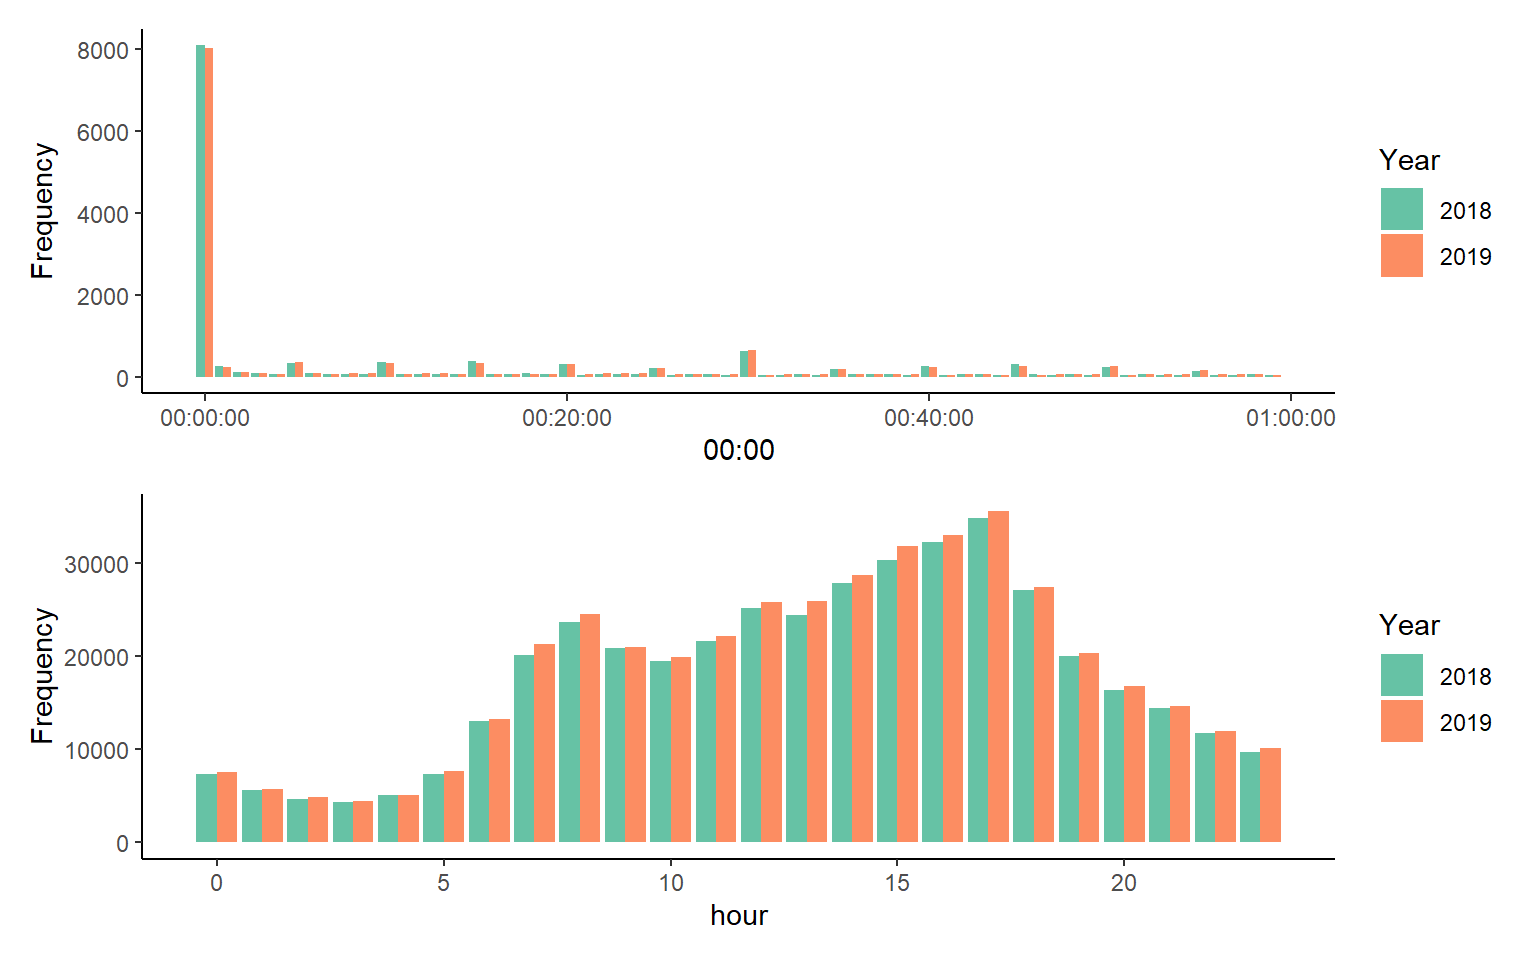
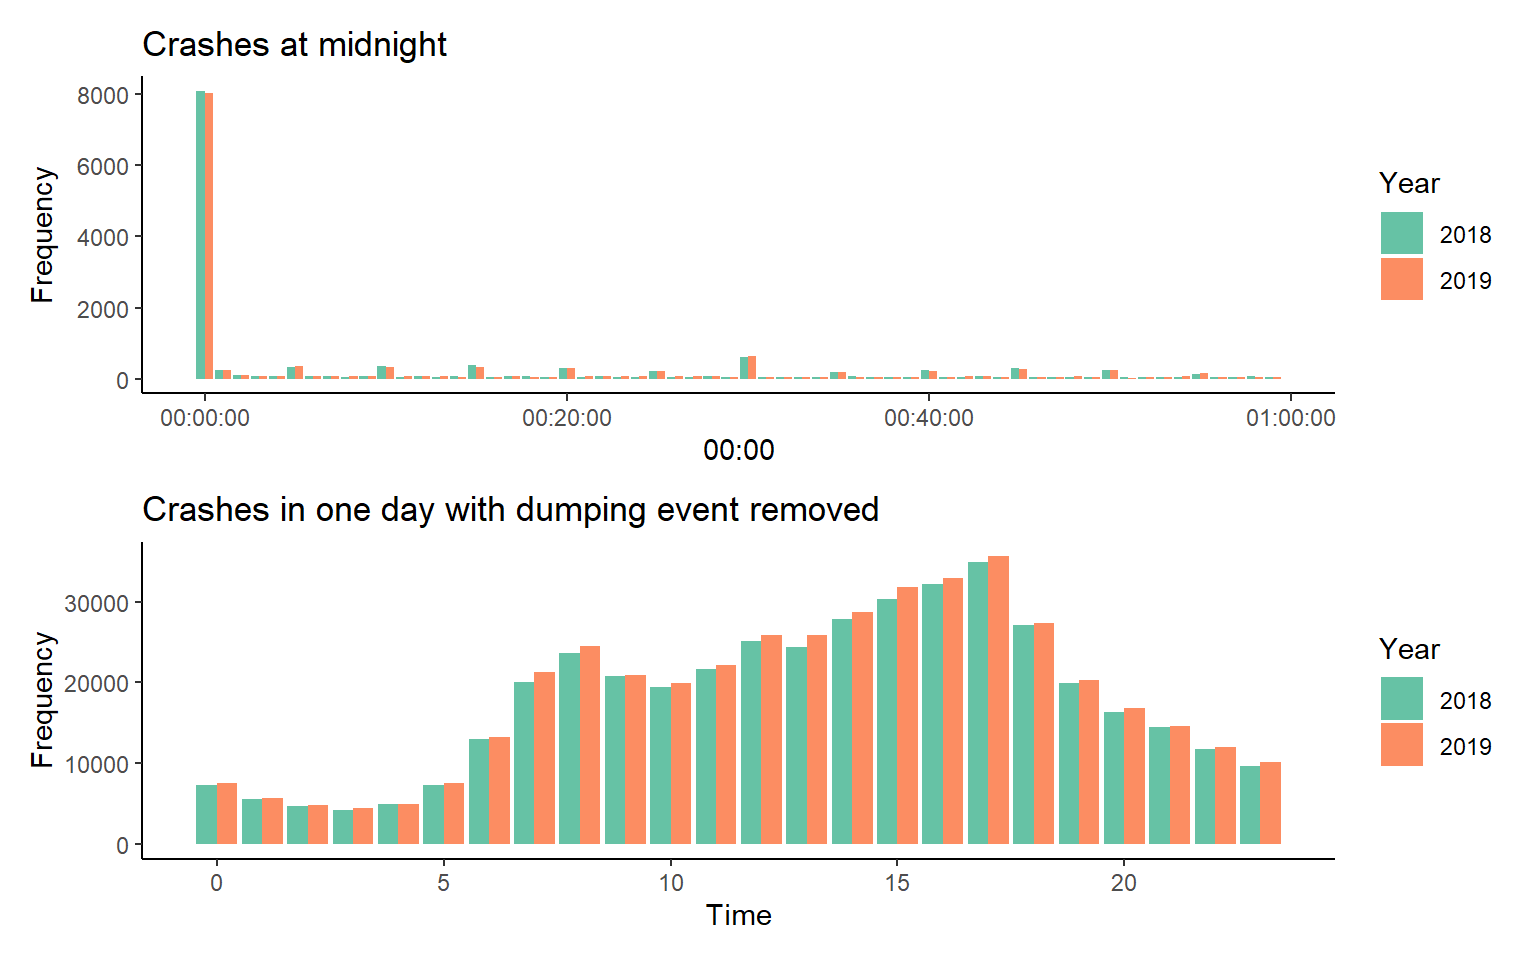
plot consistency

diff --git a/docs/results.html b/docs/results.html
@@ -134,59 +134,61 @@
 <div id="time-in-day" class="section level3" number="5.1.1">
 <h3><span class="header-section-number">5.1.1</span> Time in Day</h3>
 <p>First, we explore when crashes happen the most, and the corresponding reasons.
-<img src="finalproj_files/figure-html/unnamed-chunk-18-1.png" width="768" />
+<img src="finalproj_files/figure-html/unnamed-chunk-6-1.png" width="768" />
 Here is an overview of number of crash occur in 24 hours in 2018 and 2019. Firstly, there are three peaks in the plot: 0:00, 8:00 and 17:00. Commuting peak can be considered as the major reason for peaks at 8:00 and 17:00. The reason for 0:00 will be explored in details later. Secondly, we assume that <code>Lighting Conditions</code>, <code>Road Descriptor</code>, and <code>Crash Descriptor</code> are highly correlated with the hour in a day. The following bar plots examine each variable independently with time. Also <code>Collision_Detail</code> will be used to see what the actual reasons for crashing in each hour.</p>
 <p><strong>Lighting Condition</strong>
 <br>
 The variation for lighting condition matches time. During day time, the majority cases are under daylight; and during evening, majority cases are under Dark-Road Lighted/Unlighted condition. For crashes happened in the night, the proportion of lighted condition are always higher than the proportion of unlighted condition. On the other side, 17:00 is when most crashes happened during one day, which is under daylight condition in most of the time. Therefore, we can simply conclude that the reason of evening crashes is not correlated with the lighting condition.</p>
-<p><img src="finalproj_files/figure-html/unnamed-chunk-20-1.png" width="768" /></p>
+<p><img src="finalproj_files/figure-html/unnamed-chunk-8-1.png" width="768" /></p>
 <p><strong>Road Descriptor</strong>
 <br>
 The assumption for road descriptor is that during night curve conditions may have more cases than straight conditions. However, the plot indicates that the road descriptor doesn’t have a obvious correlation with time. In one day, most of the cases were under the straight and level condition, which is the major condition of most of the road in the states.
-<img src="finalproj_files/figure-html/unnamed-chunk-21-1.png" width="768" /></p>
+<img src="finalproj_files/figure-html/unnamed-chunk-9-1.png" width="768" /></p>
 <p><strong>Damage Severity </strong>
 <br>
-Most of the crash in these two years are property damage accident. Injury accidentm, property damage &amp; injury accident, and property damage accident have similar distribution through all the time during one day. The proportion of fatal accident is very small, but always happened during night and early morning.
-<img src="finalproj_files/figure-html/unnamed-chunk-22-1.png" width="768" /></p>
+Most of the crash in these two years are property damage accident. Injury accident, property damage &amp; injury accident, and property damage accident have similar distribution through all the time during one day. The proportion of fatal accident is very small, but happened during night and early morning more often.
+<img src="finalproj_files/figure-html/unnamed-chunk-10-1.png" width="768" /></p>
 <p><strong>Collision Details</strong></p>
 <p>There are total 30 levels for collision details, which is hard to illustrate in one plot. In the previous data cleaning part, collision details has a super class, collision type, which only have 3 levels (“Collision With”, “Collision With Fixed Object”, “Non-Collision”). The majority cases are under type “collision with”, so the first plot only contains the collision details that belongs to type “collision with”, and the second plot shows the top 6 levels in collision details for the remaining types “Non-Collision” and “Collision With Fixed Object”.</p>
 <p>For collision with subject, motor vehicle collisions are over 50% of the cases, which doesn’t have a obvious correlation with time. The second highest proportion is collision with animal, which has a peak in the morning around 5:00 and remains low proportion during day time. The animal activity and human activity can explain this phenomenon. Usually, animal activate when human activity reduces, which is during night and early morning. Other collision details, such as collision with bicyclist and pedestrain are not correlated with time.
-<img src="finalproj_files/figure-html/unnamed-chunk-23-1.png" width="768" /></p>
+<img src="finalproj_files/figure-html/unnamed-chunk-11-1.png" width="768" /></p>
 <p>As the plots shown below, details in both types are not have a correlation with the time. Details will be used in the follwing section to explore with other variables.
-<img src="finalproj_files/figure-html/unnamed-chunk-24-1.png" width="768" /></p>
+<img src="finalproj_files/figure-html/unnamed-chunk-12-1.png" width="768" /></p>
 <p><strong>Midnight Peak</strong>
 <br>
-We notice that an unusual peak at 00:00 in the total number cases time bar plot. At the same time, in the first two variables, at 0:00 25% of the cases are under Unknown, while compare to other time, this proportion is problematic. With the bar chart below, at 00:00:00, the number of cases is extremely higher than other time. For this result, we have the assumption that 00:00:00 is a position to dump cases with unclear time. To prove the assumption, the number of cases at 00:00:00 are replaced by the second largest number in 00:00. The histogram after cleaning this data is shown below, which support the assumption that 00:00 is not a actual crashes peak, and the crash is highly correlated with human activity. Even though the time of some cases is not accurate, but we decided not to remove them from the following analysis.
-<img src="finalproj_files/figure-html/unnamed-chunk-25-1.png" width="768" /></p>
+We notice that an unusual peak at 00:00 in the total number cases time bar plot. At the same time, in the first two variables, at 0:00 25% of the cases are under Unknown, while compare to other time, this proportion is problematic. With the bar chart below, at 00:00:00, the number of cases is extremely higher than other time.
+<br>
+For this result, we have the assumption that 00:00:00 is a position to dump cases with unclear time. To prove the assumption, the number of cases at 00:00:00 are replaced by the second largest number in 00:00. The histogram after cleaning this data is shown below, which support the assumption that 00:00 is not a actual crashes peak, and the crash is highly correlated with human activity. Even though the time of some cases is not accurate, but we decided not to remove them from the following analysis.
+<img src="finalproj_files/figure-html/unnamed-chunk-13-1.png" width="768" /></p>
 </div>
 <div id="month-of-year" class="section level3" number="5.1.2">
 <h3><span class="header-section-number">5.1.2</span> Month of Year</h3>
-<p><img src="finalproj_files/figure-html/unnamed-chunk-26-1.png" width="768" />
+<p><img src="finalproj_files/figure-html/unnamed-chunk-14-1.png" width="768" />
 The bar plots above shows the number of car crashes occurred on each month accumulating 2018 and 2019. While the differences between each month are not tremendous, we could still observe that the number of crashes that happened in October, November, December and January are higher than the other months in a year.
 Remarkably, the four months that have highest number of car crashes occurred are cluster together, and these four months covers almost the whole winter season. Considering the season factor, the weather conditions are different in winter than other season, and the daytime are shorter in winter which the lighting condition could be different as well. To get further information for car crashes that occurred in these four months, we will visulize through the mosiac plots between months and lighting conditions and weather conditions.</p>
-<p><img src="finalproj_files/figure-html/unnamed-chunk-27-1.png" width="768" /></p>
-<p><img src="finalproj_files/figure-html/unnamed-chunk-28-1.png" width="768" />
+<p><img src="finalproj_files/figure-html/unnamed-chunk-15-1.png" width="768" /></p>
+<p><img src="finalproj_files/figure-html/unnamed-chunk-16-1.png" width="768" />
 Looking at the two plots above, for the first plot, we can obverse that for the car crashes that occurred during October, November, December and January, the proportion of having lighting conditions of “Dark-Road Lighted” and “Dark-Road Unlighted” when crashes occurred are higher than those in the other months. While most of the crashes happened under the “Daylight” lighting condition, it is still worth noticing that how the proportion of lighting condition changed when the crashes occurred within these four months.
 In addition to seeing the lighting conditions, in the second plot showing the proportion of weather conditions when the car crashes occurred, we can observe that around 10 to 18 percent of car crashes occurred in November, December and January are under the “Snow” or “Sleet/Hail/Freezing Rain” weather condition. Since the weather condition vary objective to the time period (season) during a year, we cannot infer weather the higher number of crashes in these four months are due to change in the weather conditions.</p>
 </div>
 </div>
 <div id="where" class="section level2" number="5.2">
 <h2><span class="header-section-number">5.2</span> Where</h2>
-<p><img src="finalproj_files/figure-html/unnamed-chunk-29-1.png" width="2880" /></p>
-<p><img src="finalproj_files/figure-html/unnamed-chunk-30-1.png" width="768" /></p>
+<p><img src="finalproj_files/figure-html/unnamed-chunk-17-1.png" width="2880" /></p>
+<p><img src="finalproj_files/figure-html/unnamed-chunk-18-1.png" width="768" /></p>
 </div>
 <div id="how" class="section level2" number="5.3">
 <h2><span class="header-section-number">5.3</span> How</h2>
 <p><strong>Top 10 Crashes Detail</strong>
-<img src="finalproj_files/figure-html/unnamed-chunk-31-1.png" width="768" />
+<img src="finalproj_files/figure-html/unnamed-chunk-19-1.png" width="768" />
 Within the dataset, there is a variable providing the details of each crash case which give us the information of the type of collision. In total, there are 30 different situations. We pick the top 10 types which take over 80 percents of all crashes that occurred for analysis. According to the bar plot above, more than 70 percent of the crashes are collision with other motor vehicle and the following by collision with subject including Animal, Pedestrian, Bicyclist and fix objects such as Tree, Guide Rail and Sign Post.</p>
 <p><strong>Road Surface patterns correspond to these top 10 type of Crashes</strong>
-<img src="finalproj_files/figure-html/unnamed-chunk-32-1.png" width="768" /></p>
-<p><img src="finalproj_files/figure-html/unnamed-chunk-33-1.png" width="768" /></p>
+<img src="finalproj_files/figure-html/unnamed-chunk-20-1.png" width="768" /></p>
+<p><img src="finalproj_files/figure-html/unnamed-chunk-21-1.png" width="768" /></p>
 <p><strong>Combination: Lighting Conditions and Road Surface Condition</strong>
-<img src="finalproj_files/figure-html/unnamed-chunk-34-1.png" width="768" /></p>
+<img src="finalproj_files/figure-html/unnamed-chunk-22-1.png" width="768" /></p>
 <p><strong>Traffic Control Condition</strong></p>
-<p><img src="finalproj_files/figure-html/unnamed-chunk-35-1.png" width="768" /></p>
+<p><img src="finalproj_files/figure-html/unnamed-chunk-23-1.png" width="768" /></p>
 
 </div>
 </div>
